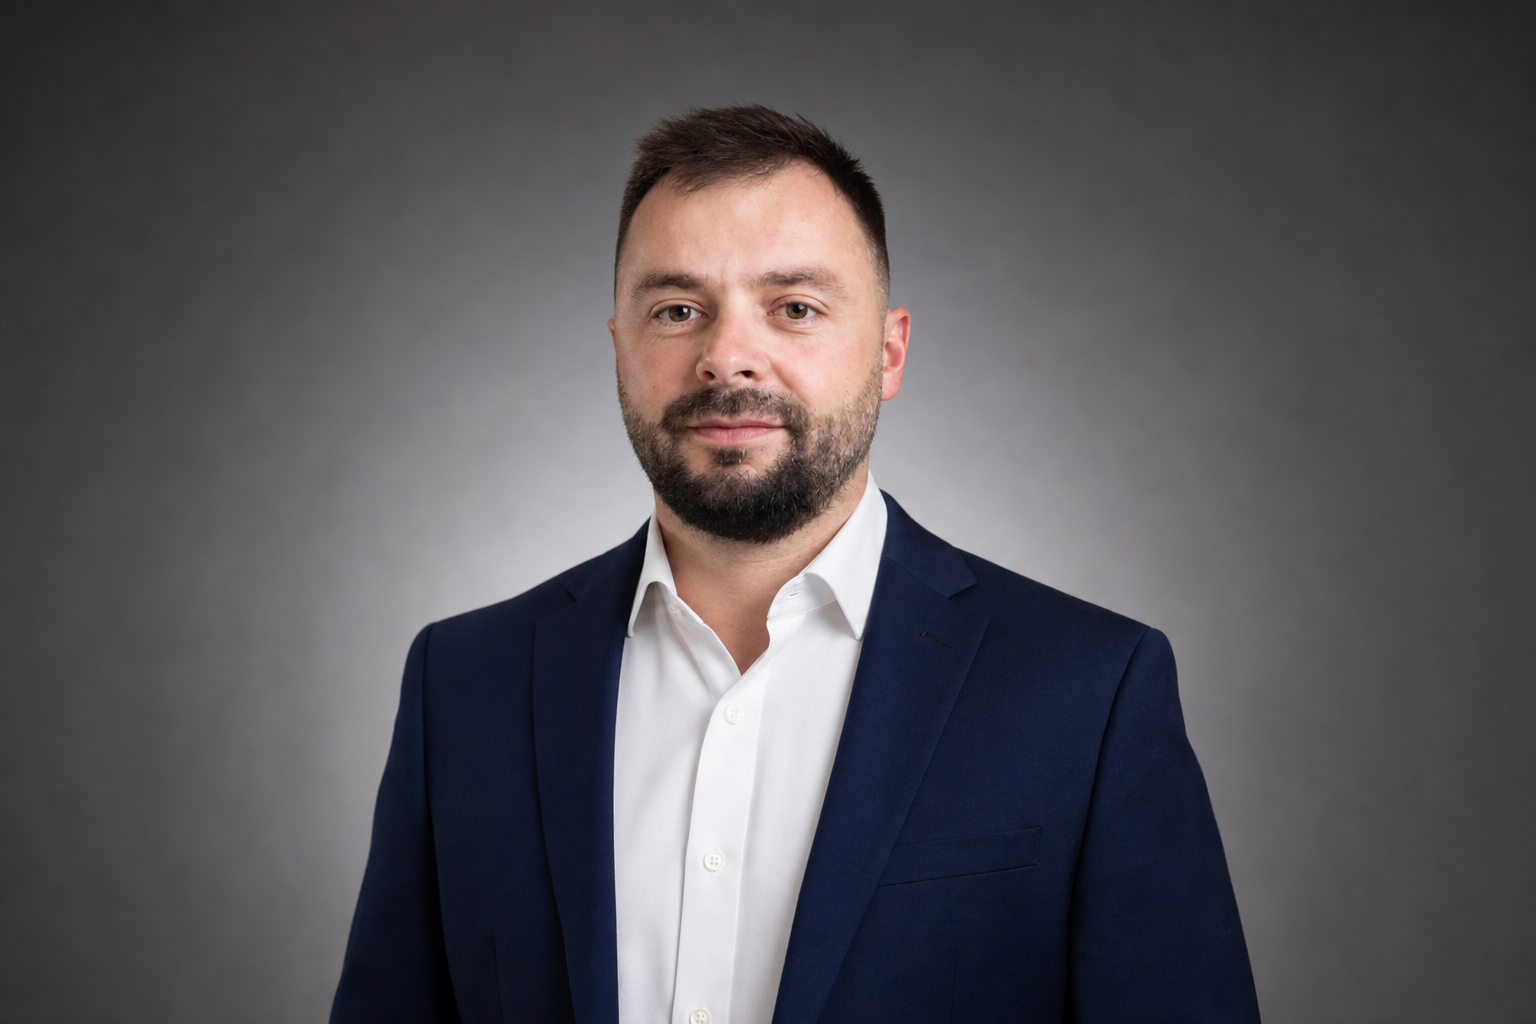
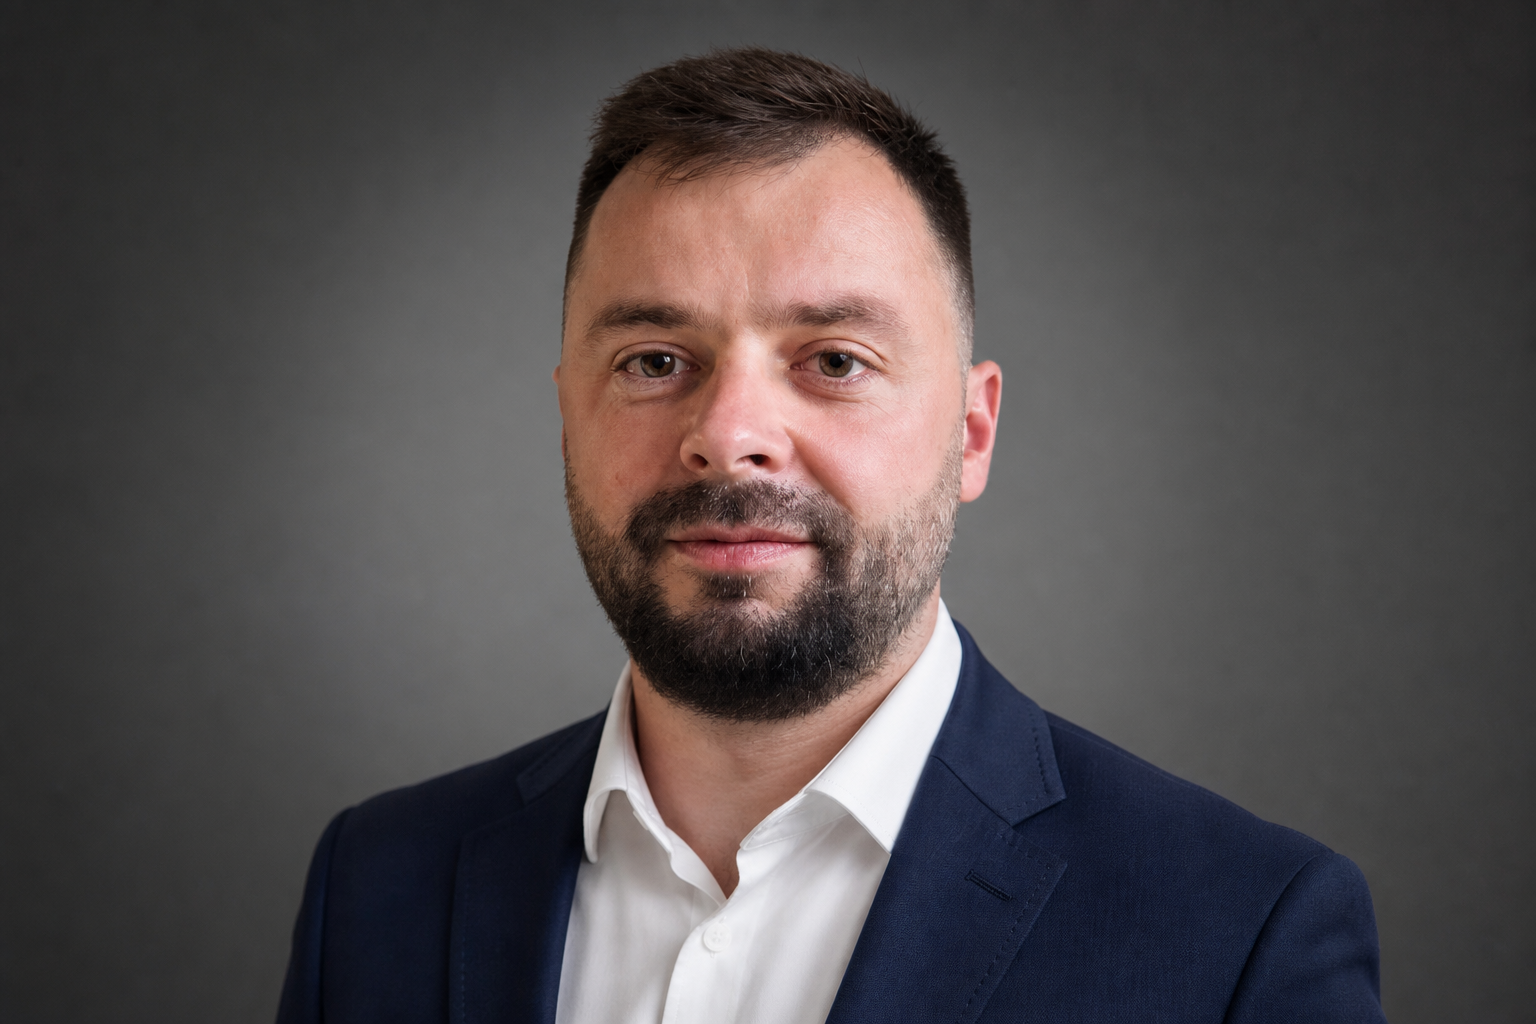
changed my picture

diff --git a/css/style.css b/css/style.css
@@ -1158,6 +1158,12 @@ h1, h2, h3, h4 {
     object-position: center 20%;
 }
 
+.team-photo-founder img {
+    object-position: center 15%;
+    transform: scale(1.1);
+    transform-origin: center 20%;
+}
+
 .team-info h3 {
     font-size: 1.12rem;
     margin-bottom: 3px;

diff --git a/index.html b/index.html
@@ -614,7 +614,7 @@
             </div>
             <div class="team-grid">
                 <div class="team-card">
-                    <div class="team-photo">
+                    <div class="team-photo team-photo-founder">
                         <picture>
                             <source srcset="assets/images/team-lead.avif" type="image/avif">
                             <source srcset="assets/images/team-lead.webp" type="image/webp">